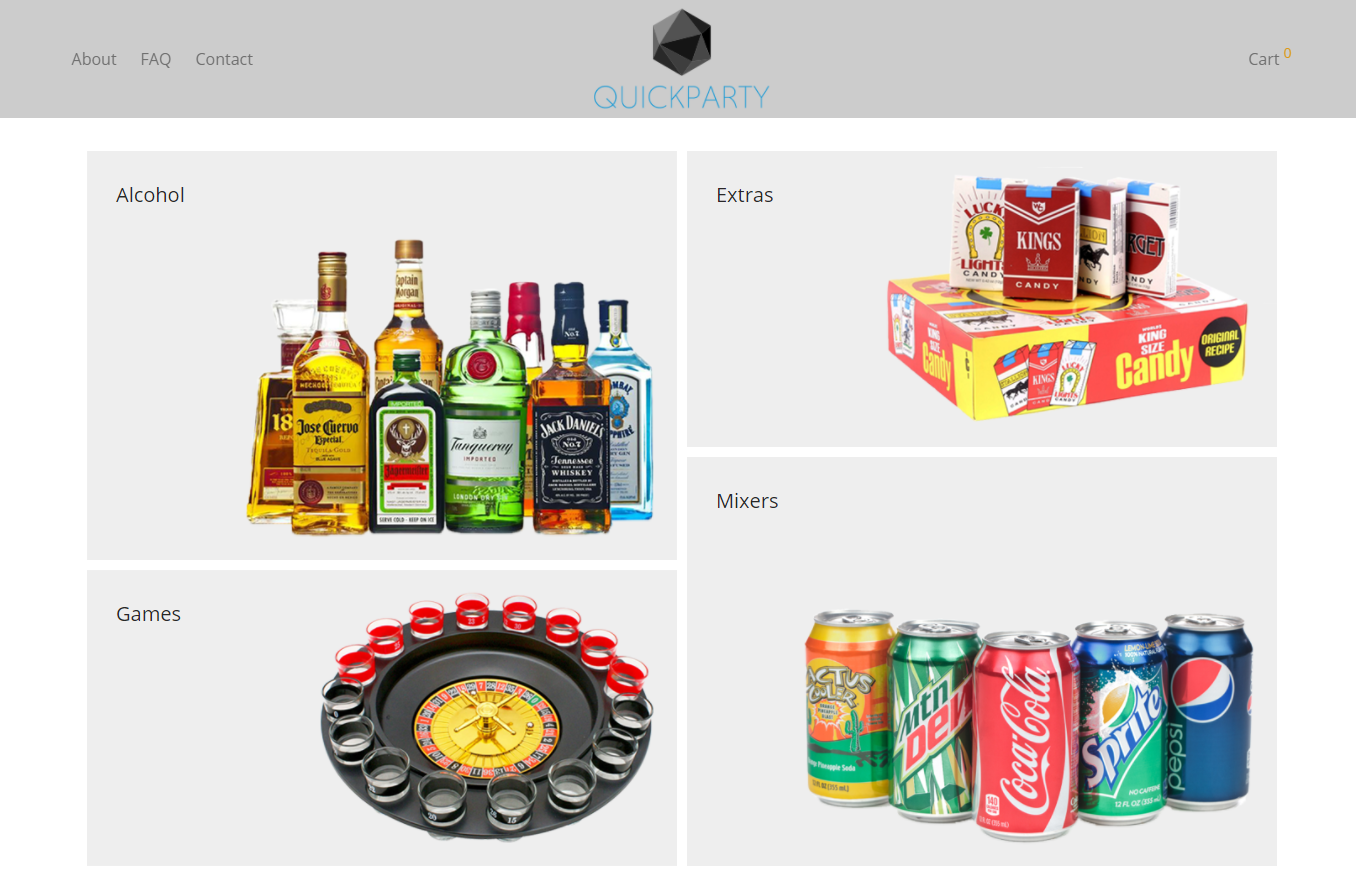
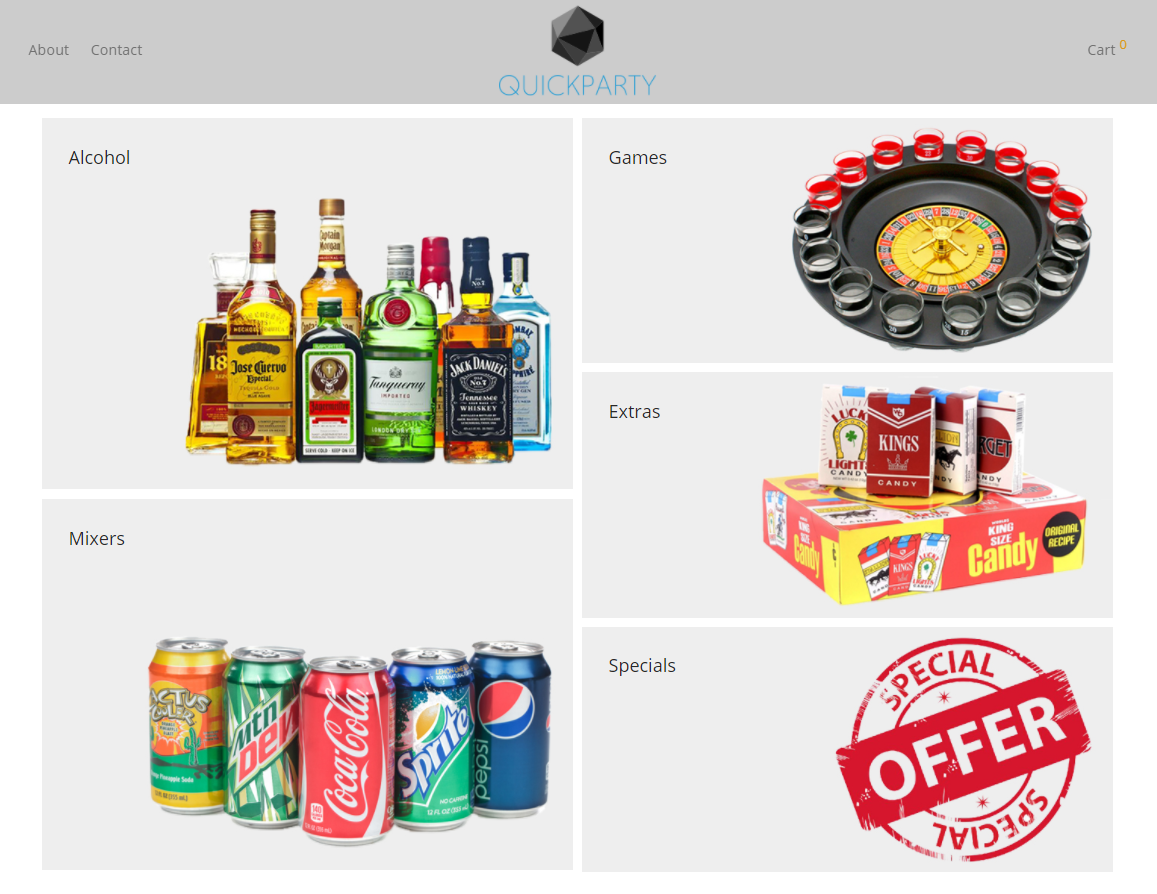
Backup 26.09.17 19:15

diff --git a/main.tex b/main.tex
@@ -178,7 +178,7 @@ The e-shop, which is described above, is only supposed to be an exemplary projec
 
 \newpage
 \section{Methodology} \label{Methodology}
-Our project is meant to finalize in the form of an online liquor shop with instant delivery for purchased orders with numerous variations of offers including drinking games and other miscellaneous accessories that might be desired on a party, hence we had to take different approaches to the problems we faced. Successful management of a shop of any kind requires careful market analysis, identifying whether (and if so, then for what) is there a demand, a research of prices of the items the shop is bound to offer and their availability to purchase them wholesale for the needs of the shop, choosing an appropriate design for the shop’s site and advertising the services correctly, using the opportunities the local situation of shops of such kind creates, as well as differing from any possible competition, attempting to best it. 
+Our project is meant to finalize in the form of an online liquor shop with delivery for purchased orders with numerous variations of offers including drinking games and other miscellaneous accessories that might be desired on a party, hence we had to take different approaches to the problems we faced. Successful management of a shop of any kind requires careful market analysis, identifying whether (and if so, then for what) is there a demand, a research of prices of the items the shop is bound to offer and their availability to purchase them wholesale for the needs of the shop, choosing an appropriate design for the shop’s site and advertising the services correctly, using the opportunities the local situation of shops of such kind creates, as well as differing from any possible competition, attempting to best it. 
 
 The initial approach required us to basically brainstorm, decide about what is our liquor shop going to offer in details, identifying the possible customers and adjusting the offer to meet the demand. Moreover, such start further suggests more ideas, which are more detailed with each step, allowing to use a progressive approach, to polish the project with each step, identify and remove flaws gradually, while changing our focus to other matters that need to be dealt with once we finish the planning and thinking stage to focus on design, research and analysis to meet the initial goals.
 The part following the first stage required the use of more complex approaches. In order for our shop to be a force to be reckoned with on the market we had to put on several analysis tools. A detailed assessment allowed us to identify what needs to be done and ensured so that our hypothetical shop is successful. 
@@ -202,6 +202,8 @@ Our marketing strategy was considered by almost exclusively identifying the poss
 
 \newpage
 \section{State of the art}
+
+The purpose of this section was to see who our competitors were, and how technology advanced their websites are compared to ours, for that we decided to   
 
 \subsection{Saucey \cite{Saucey}}
 The website is for American citizens. It has a high-quality desktop interface including persuasive photos with drinking girls. It also has a high-quality logo, which defines their brand better.
@@ -539,6 +541,12 @@ We have been struggling finding the best theme for our website, as there were a 
 
 \subsection{Products}
 
+The products we have chosen are mainstream products. They are well known companies, some more than other, especially here in Denmark some of our products are more well known than others. For example we have \emph{Carlsberg} and \emph{Tuborg} which are very well established and common things to buy in Denmark. Our products are latitudinal, which means that even though you like strong alcohol or light alcohol we have it. The inventory of our products will be in stock as much as possible. The different categories within our products contributes to the different kinds of parties being arranged around the city. 
+\\ \\
+Within our products we have a certain category called packages. These packages are contributing to the different kinds of parties within the greater Copenhagen. The packages we have in supply are for example, \emph{Beerpong} which is a fun and very popular game among the younger people in Copenhagen. In this spectacular package you get a 24 pack of beers and some cups with two table tennis balls. We also have a shot roulette which gives itself away by the name. You have a roulette wheel, and if you land on certain numbers you get one or two shots. 
+\\ \\
+We have special deals as well. Our special deals are made because of certain events occurring around the world. For example we made a special deal for big sports event where you get three thirst aid beer helmets for you and your friends. You will also get 24 beers so you can have fun throughout the whole game. These type of special deals will of course make you save some money, and give you and your friends a fun time together. This special deal may come in handy for us around this time of the year, because of \emph{Champions League}. A very big sports event in Europe. The more manly culture of Denmark enjoy watching big football events like \emph{Champions League}. The special deal is of course not only for the football fan, but also for the basketball fan, hockey fan etc. We also have special deals for other big events like \emph{Oktoberfest}, \emph{Roskilde festival} and the \emph{Summer Party} deal when the summer starts until it ends. 
+
 \subsection{Prices}
 
 \subsection{Images}
@@ -549,13 +557,13 @@ Since it is very hard to find copyright-free images of the products we want to a
 
 As for the theme, we decided to go with a light-gray color (Hex Code: \texttt{\#EEEEEE}) for the main menu bar and also for the background of every image. 
 
-To make the main page with the four categories more appealing, we created differently sized images for each category. The upper left and lower right image are the most important ones, with alcohol and mixers. They have a pixel height of 487, while the upper right and lower left image have heights of 352 pixels each. This creates a shifted grid appearance (see Figure \ref{fig:main_page}). All pictures were edited with the software Adobe Photoshop. The category pictures have at least 1/4 of free space on the left side, to create space for the category title.
+To make the main page with the five categories more appealing, we created differently sized images for each category. The left images are the most important ones, with alcohol and mixers. They have a pixel height of 487, while the three right images have heights of 324 pixels each. This creates a shifted grid appearance (see Figure \ref{fig:main_page}). All pictures were edited with the software Adobe Photoshop. The category pictures have at least 1/4 of free space on the left side, to create space for the category title.
 
 Each product image has a squared image size, to fit into the product grid. Most of the images on our website are from \texttt{www.bevco.dk} and we simply changed the background color to the previously described light gray. For some pictures, this was a bit more difficult, because the color of the glass bottles are very similar and the Photoshop filling algorithm could  not differentiate. This was solved by manually selecting the background and then filling in the color.
 
 \begin{figure}[ht]
     \centering
-    \includegraphics[width=1\textwidth]{main_page}
+    \includegraphics[width=0.8\textwidth]{main_page}
     \caption{Main page with categories}
     \label{fig:main_page}
 \end{figure}
@@ -566,7 +574,7 @@ Each product image has a squared image size, to fit into the product grid. Most 
 
 \begin{figure}[H]
     \centering
-    \includegraphics[width=1\textwidth]{about_page}
+    \includegraphics[width=0.8\textwidth]{about_page}
     \caption{The "About" page}
     \label{fig:about_page}
 \end{figure}
